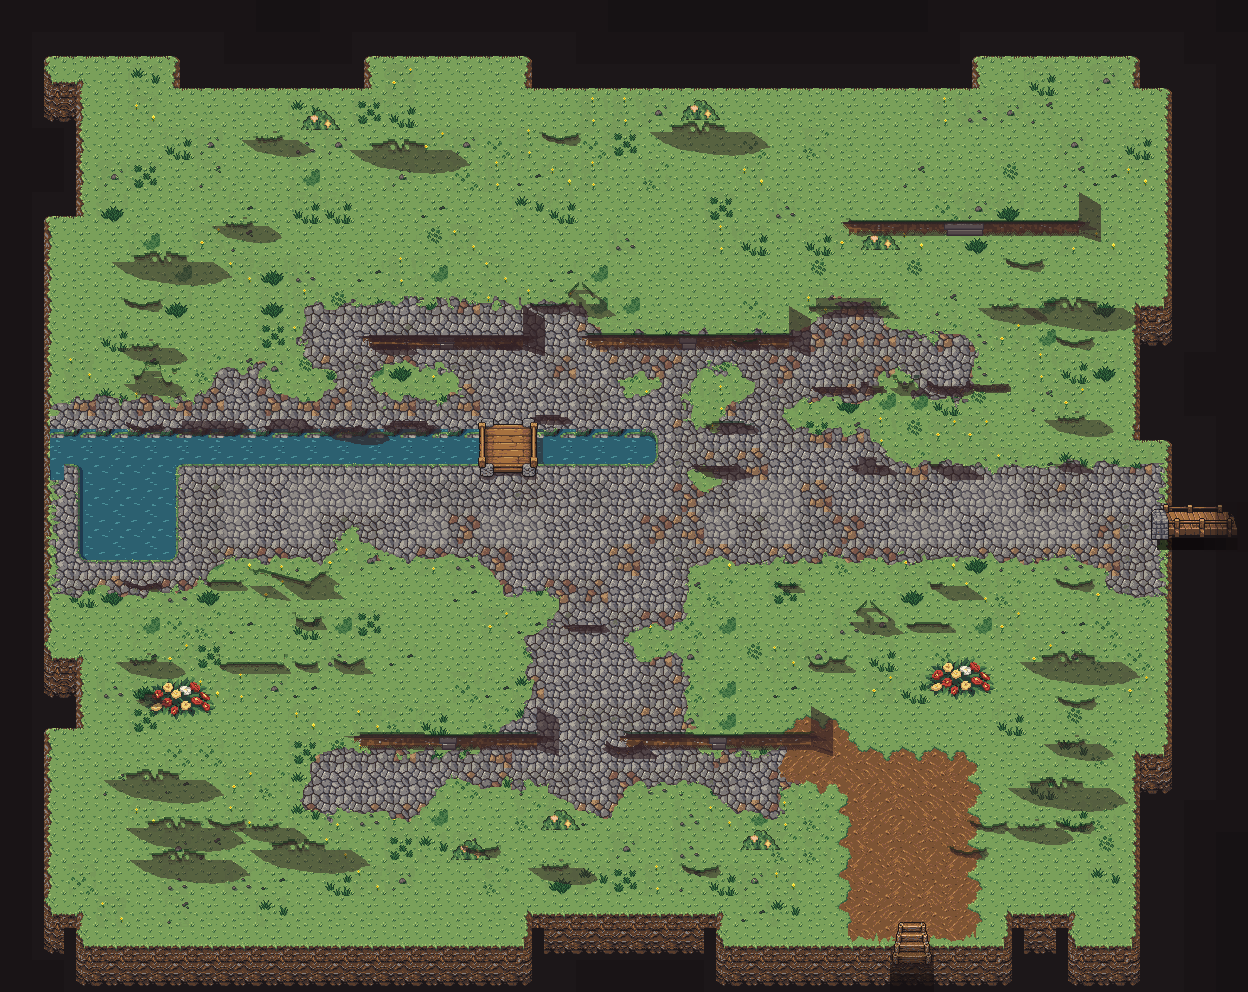
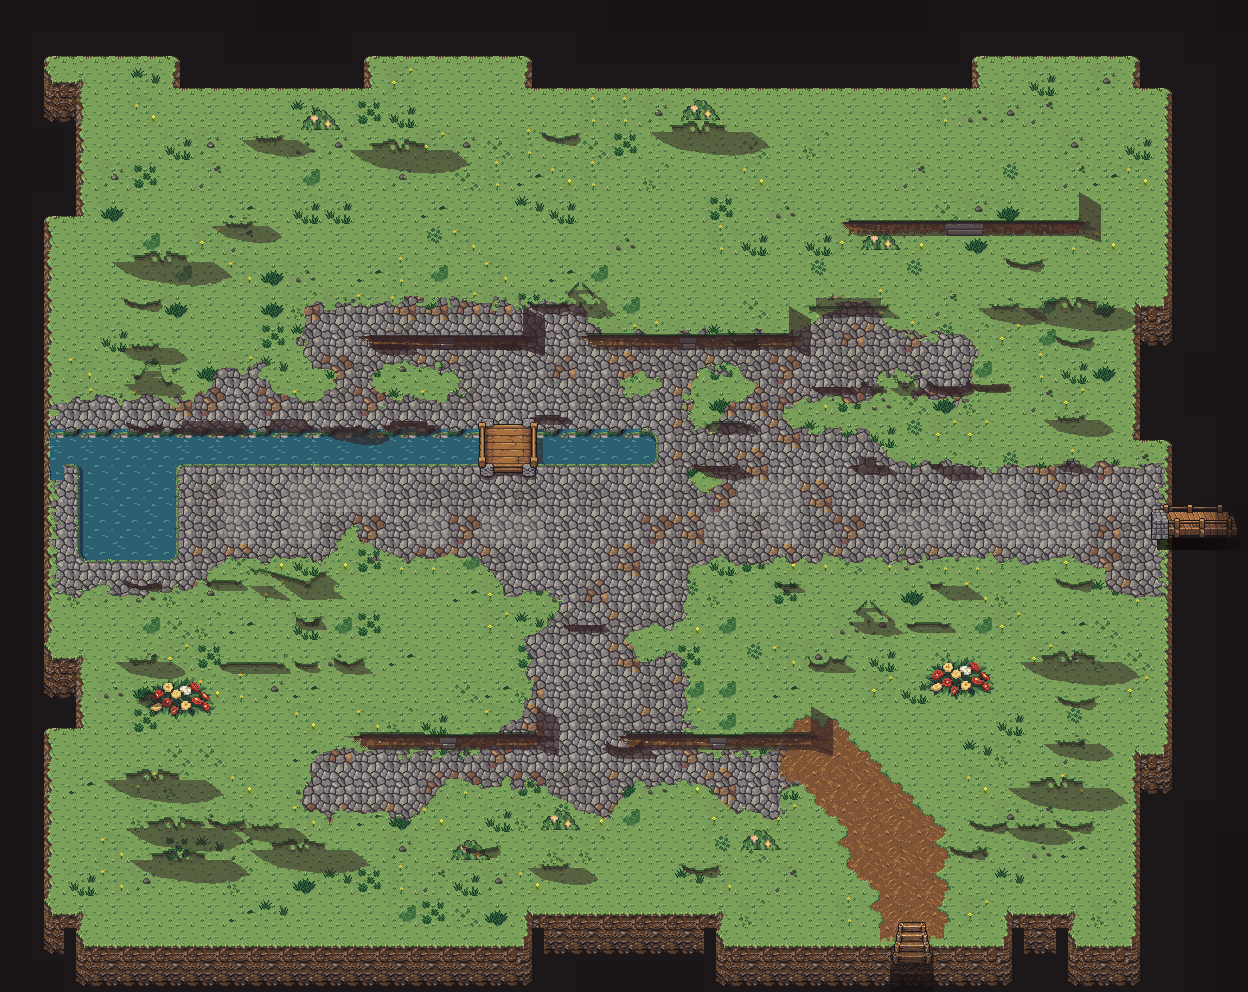
Narrow the riverside landing to a worn footpath
The owner's crop showed a five-cell brown blob over the river steps. The
track is now two to three cells wide at the steps, centred on them, and
narrows as it bends north-west to the south lane; its edge wanders on the
slow path noise (0.5 and 0.35 vertices) through the dirt set's own grass
transitions. The exit's outer cells cross grass.

Claude-Session: https://claude.ai/code/session_01H8JDTPYztrZvUL5HBCK6eR

diff --git a/src/content/scenes/baDan.topdown.terrain.ts b/src/content/scenes/baDan.topdown.terrain.ts
@@ -291,9 +291,9 @@ export interface Track extends Road {
 }
 
 /**
- * The riverside footpath, worn dirt: about three cells wide at the exit mouth (18..20, 15), centred
- * on the steps over the south lip, narrowing to about a cell and a half as it bends up north-west to
- * meet the end of the cobbled south lane. Its edge wanders on slow, wide noise
+ * The riverside footpath, worn dirt: two to three cells wide at the steps over the south lip, centred
+ * on them, narrowing to about a cell and a half as it bends up north-west to meet the end of the
+ * cobbled south lane. The exit mouth (18..20, 15) is wider than the path; its outer cells cross grass. Its edge wanders on slow, wide noise
  * (`NOISE.pathSpill`), and the bake draws it with the dirt Wang set's own transition tiles.
  */
 export const RIVER_TRACK: readonly Track[] = [
@@ -301,22 +301,22 @@ export const RIVER_TRACK: readonly Track[] = [
     id: 'riverside-mouth',
     points: [
       [28.5, 30],
-      [28.6, 27.6],
-      [28.6, 24.9],
+      [28.4, 27.6],
+      [28.0, 26.3],
     ],
-    halfWidth: 1.7,
-    wander: 0.15,
+    halfWidth: 0.95,
+    wander: 0.5,
   },
   {
     id: 'riverside-footpath',
     points: [
-      [28.4, 25.2],
-      [27.5, 24.3],
-      [26.3, 23.8],
+      [28.0, 26.4],
+      [27.2, 25.0],
+      [26.2, 24.1],
       [25.2, 23.6],
     ],
-    halfWidth: 0.7,
-    wander: 0.3,
+    halfWidth: 0.75,
+    wander: 0.35,
   },
 ];
 
@@ -468,7 +468,7 @@ export const MOUTHS: readonly RimMouth[] = [
     ],
   },
   {
-    // The riverside exit's three cells: the track widens to a trodden landing over the steps.
+    // The riverside exit's three cells, the footpath down the middle one to the steps.
     id: 'riverside-steps',
     side: 'south',
     cells: [
